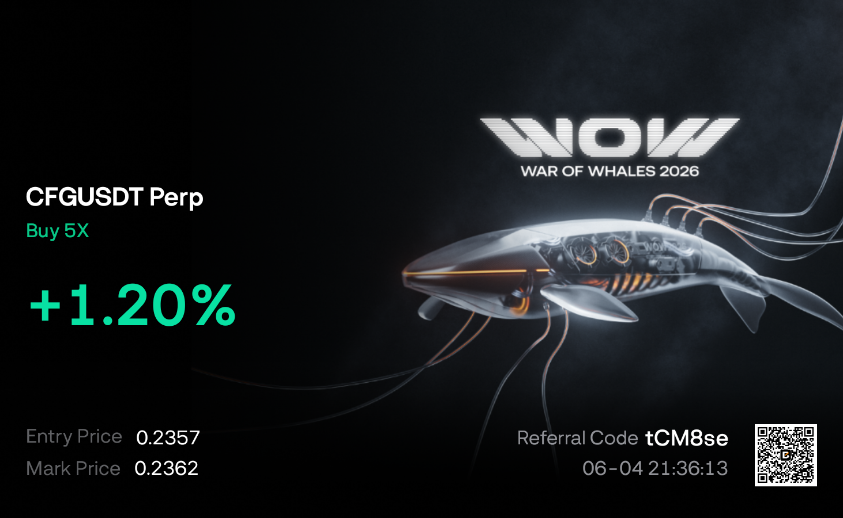
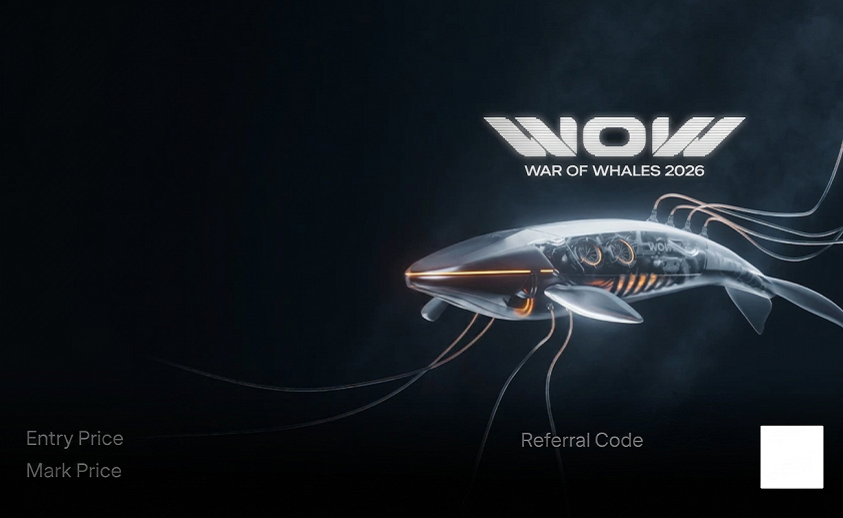
FEAT: Added Blofin1

diff --git a/image/report_generator/report_classes/blofin/Blofin1.py b/image/report_generator/report_classes/blofin/Blofin1.py
@@ -1,68 +1,57 @@
+from image.report_generator.utils.generic import separate_price
 from ..BaseReport import BaseReport
 
 
 class Blofin1(BaseReport):
     def __init__(
-        self, report_data: dict, extra_features: list[str] = [], drag_and_drop=False
+        self,
+        report_data: dict,
+        extra_features: list[str] = [],
+        drag_and_drop: bool = False,
     ) -> None:
         super().__init__(report_data, extra_features, drag_and_drop)
 
-        self.draw_symbol()
+        self.draw_date(
+            string_function=lambda x: x.strftime("%m-%d %H:%M:%S"),
+            additional_styles={"letter-spacing": "-0.2px"},
+        )
+        self.draw_symbol(
+            string_function=lambda x: (
+                x.lower().replace("perpetual", "").strip().upper() + " Perp"
+            ),
+            additional_styles={"letter-spacing": "-0.5px"},
+        )
         self.draw_signal_type_leverage()
-        self.draw_roi()
-        self.draw_entry()
-        self.draw_target()
-        self.draw_date()
+        self.draw_roi(string_function=lambda x: f"+{x:.2f}%")
+        self.draw_entry(
+            string_function=separate_price, additional_styles={"letter-spacing": "-1px"}
+        )
+        self.draw_target(
+            string_function=separate_price, additional_styles={"letter-spacing": "-1px"}
+        )
         self.draw_referral()
         self.draw_qr()
 
     def draw_signal_type_leverage(self):
-        signal_type_leverage_style = self._get_element_styling("signal_type_leverage")
+        st = self._get_element_styling("signal_type_leverage")
+        font_color = st.short_color if self.signal_type == "short" else st.long_color
 
-        # Determine colors based on signal type
-        signal_type_color = (
-            signal_type_leverage_style.short_font_color
-            if self.signal_type == "short"
-            else signal_type_leverage_style.long_font_color
+        signal_type_element = self.report_html.create_inline_text(
+            text=f"{'Buy' if self.signal_type.lower() == 'long' else 'Sell'}",
+            font_name=st.font,
+            font_size=st.font_size,
+            font_color=font_color,
+            additional_styles={"letter-spacing": "-1px", "margin-right": "5px"},
+        )
+        leverage_element = self.report_html.create_inline_text(
+            text=str(self.leverage) + "X",
+            font_name=st.font,
+            font_size=st.font_size,
+            font_color=font_color,
         )
 
-        box_color = (
-            signal_type_leverage_style.short_box_color
-            if self.signal_type == "short"
-            else signal_type_leverage_style.long_box_color
-        )
-
-        # Format symbol: remove "Perpetual" and add " Perp"
-        formatted_symbol = self.symbol.lower().replace("perpetual", "").strip().upper()
-
-        # Create symbol element with larger font
-        symbol_element = self.report_html.create_inline_text(
-            text=formatted_symbol,
-            font_name=signal_type_leverage_style.symbol_font,
-            font_size=signal_type_leverage_style.symbol_font_size,
-            font_color="white",  # White color for symbol as shown in image
-            additional_styles={"margin-right": f"{signal_type_leverage_style.gap}px"},
-        )
-
-        # Create signal type text
-        signal_type_leverage_element = self.report_html.create_inline_text(
-            text=f"{self.signal_type.capitalize()} {self.leverage:.1f}X",
-            font_name=signal_type_leverage_style.signal_type_leverage_font,
-            font_size=signal_type_leverage_style.signal_type_leverage_font_size,
-            font_color=signal_type_color,
-            additional_styles={
-                "padding": f"{signal_type_leverage_style.box_padding_y}px {signal_type_leverage_style.box_padding_x}px",
-                "background-color": box_color,
-                "border-radius": f"{signal_type_leverage_style.box_radius}px",
-            },
-        )
-
-        # Add all elements as inline elements
         self.report_html.add_inline_elements(
-            elements=[
-                symbol_element,
-                signal_type_leverage_element,
-            ],
-            position=signal_type_leverage_style.position,
+            elements=[signal_type_element, leverage_element],
+            position=st.position,
             justify_content="left",
         )

diff --git a/static/styling_dict.py b/static/styling_dict.py
@@ -1846,63 +1846,51 @@ styling_dict = {
         ),
     },
     "blofin_1": {
-        "avatar": ElementStyling(position=Position(0.063, 0.105), size=64),
-        "username": ElementStyling(
-            position=Position(x=0.1735367540118526, y=0.061119794845581055),
-            font="Metropolis-Medium.otf",
-            font_size=43,
-            color="white",
-        ),
         "date": ElementStyling(
-            position=Position(x=0.17032476257716309, y=0.10828125476837158),
-            font="Metropolis-Regular.otf",
-            font_size=32,
-            color="white",
+            position=Position(x=0.6904902882423265, y=0.8843307495117188),
+            font="BlofinNova-Medium.woff2",
+            font_size=20,
+            color="#999",
         ),
         "symbol": ElementStyling(
-            position=Position(x=0.057708772908441515, y=0.3244010448455811),
-            font="Metropolis-Bold.otf",
-            font_size=47,
+            position=Position(x=0.030427039023113136, y=0.35334618763573844),
+            font="BlofinNova-SemiBold.woff2",
+            font_size=26,
             color="white",
         ),
         "signal_type_leverage": ElementStyling(
-            position=Position(x=0.056638109096878345, y=0.37328126430511477),
-            font="Metropolis-Medium.otf",
-            font_size=33,
-            gap=40,
-            separator_color="#464646",
-            separator_length=33,
-            separator_width=2,
+            position=Position(x=0.03291814946619217, y=0.42348777741538973),
+            font="BlofinNova-Medium.woff2",
+            font_size=21,
             short_color="#d95374",
             long_color="#34b785",
-            leverage_color="#737373",
         ),
         "roi": ElementStyling(
-            position=Position(x=0.05235545385062567, y=0.44393229484558105),
-            font="Pretendard-SemiBold.otf",
-            font_size=80,
+            position=Position(x=0.031593512809997774, y=0.5317567508653324),
+            font="BlofinNova-Bold.woff2",
+            font_size=58,
             color="#2ebd88",
         ),
         "entry": ElementStyling(
-            position=Position(x=0.056638109096878345, y=0.6018098831176758),
-            font="Metropolis-Medium.otf",
-            font_size=37,
+            position=Position(x=0.16221826809015422, y=0.8286357570338894),
+            font="BlofinNova-Medium.woff2",
+            font_size=21,
             color="white",
         ),
         "target": ElementStyling(
-            position=Position(x=0.5226445330797477, y=0.6025911331176758),
-            font="Metropolis-Medium.otf",
-            font_size=37,
+            position=Position(x=0.16221826809015422, y=0.883494167254238),
+            font="BlofinNova-Medium.woff2",
+            font_size=21,
             color="white",
         ),
         "referral": ElementStyling(
-            position=Position(x=0.41347253705500536, y=0.9344400882720947),
-            font="Metropolis-Medium.otf",
-            font_size=32,
+            position=Position(x=0.7705219309525133, y=0.8253539391005822),
+            font="BlofinNova-SemiBold.woff2",
+            font_size=23,
             color="white",
         ),
         "qr": ElementStyling(
-            position=Position(x=0.7968237017155715, y=0.8553124904632569), size=140
+            position=Position(x=0.9035784991751927, y=0.8253861062775247), size=60
         ),
     },
 }

diff --git a/tg/handler_functions/helpers/templates.py b/tg/handler_functions/helpers/templates.py
@@ -162,6 +162,9 @@ TEMPLATES = {
         "Turk Main": {"qr": "kcex_1", "referral": "276OLN"},
         "Turk Free": {"qr": "kcex_2", "referral": "962HRN"},
     },
+    "blofin": {
+        "CAN Main": {"qr": "blofin_1", "referral": "tCM8se"},
+    },
 }
 
 

diff --git a/tg/handler_functions/helpers/extra_features.py b/tg/handler_functions/helpers/extra_features.py
@@ -26,6 +26,7 @@ extra_features = {
     "binance_7": ["date"],
     "binance_8": ["date"],
     "kcex_1": ["date"],
+    "blofin_1": ["date"],
     # Fully manual images
     "bingx_misc_position_1": [
         "input_symbol",

diff --git a/tg/handler_functions/helpers/tz_data.py b/tg/handler_functions/helpers/tz_data.py
@@ -13,6 +13,7 @@ tz_deltas = {
     "mexc": datetime.timedelta(hours=-1),
     "okx": datetime.timedelta(hours=-2),
     "kcex": datetime.timedelta(hours=3),
+    "blofin": datetime.timedelta(hours=3),
 }
 
 
